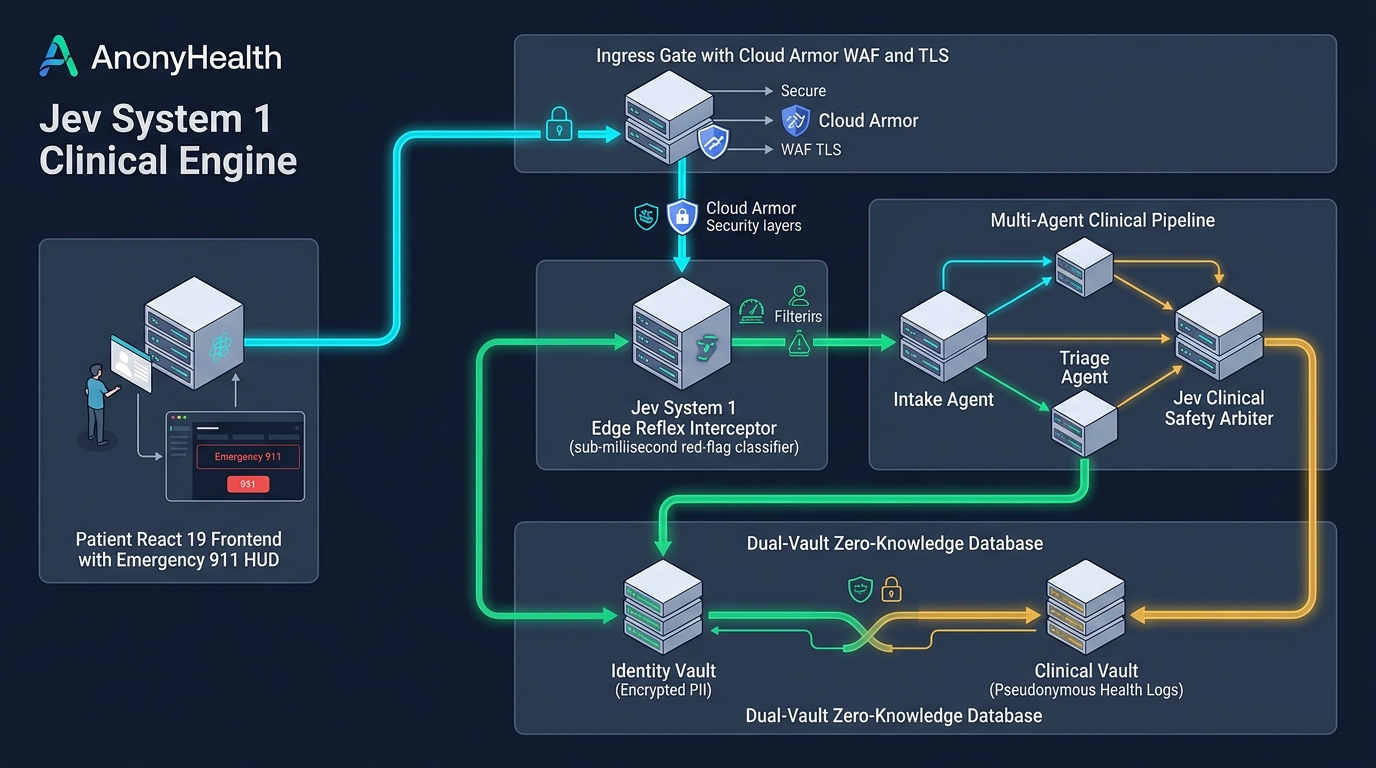
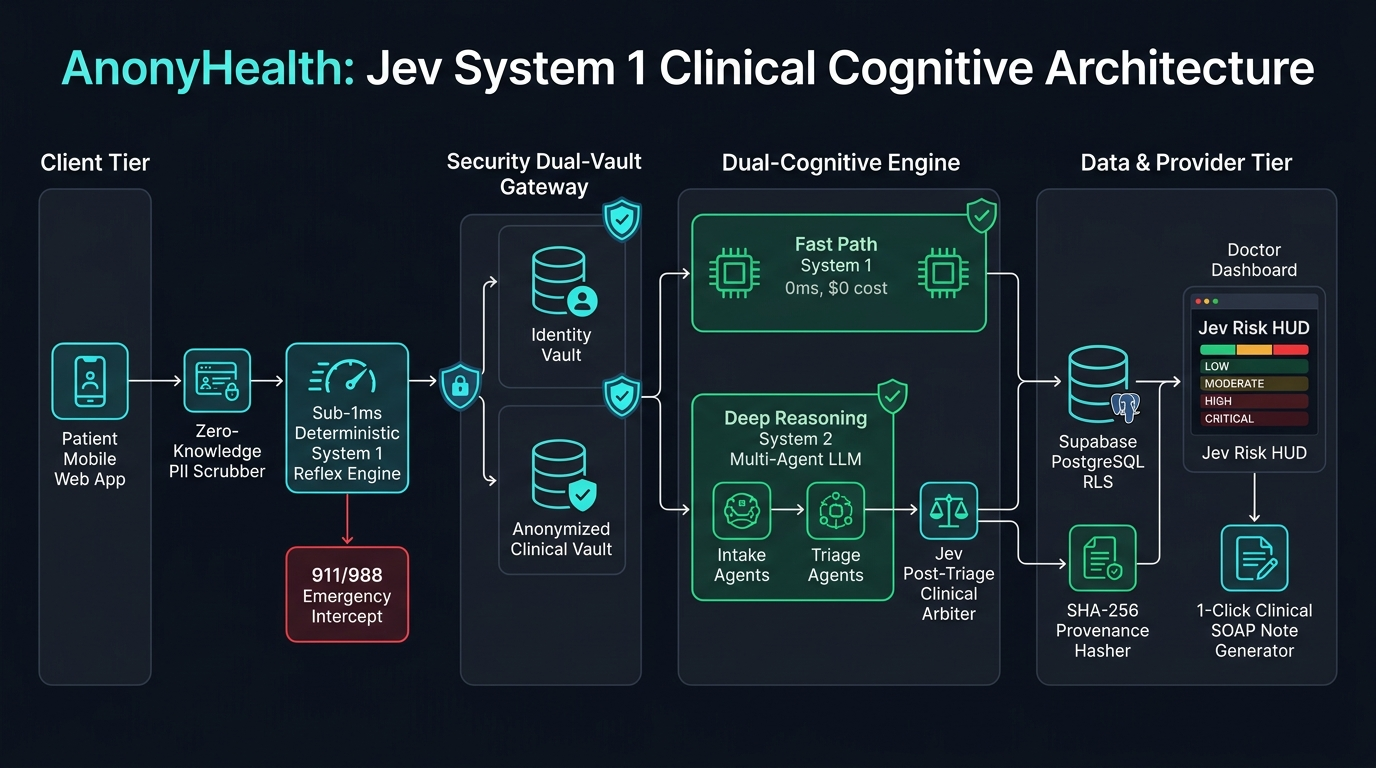
docs(arch): update high-resolution Jev System 1 clinical cognitive architecture diagram

diff --git a/README.md b/README.md
@@ -1,6 +1,10 @@
 # AnonyHealth
 
-**Privacy-first Healthcare Triage Prototype**
+**Privacy-first Healthcare Triage Platform with Jev System 1 Clinical Safety Engine**
+
+<p align="center">
+  <img src="docs/images/anonyhealth_jev_architecture.jpg" alt="AnonyHealth Jev System 1 Clinical Cognitive Architecture" width="100%" />
+</p>
 
 AnonyHealth connects patients with healthcare providers while maintaining strict privacy standards. It features a confidential AI symptom checker, provider directory, health history tracking, and secure patient authentication with Maryland telehealth compliance.
 
